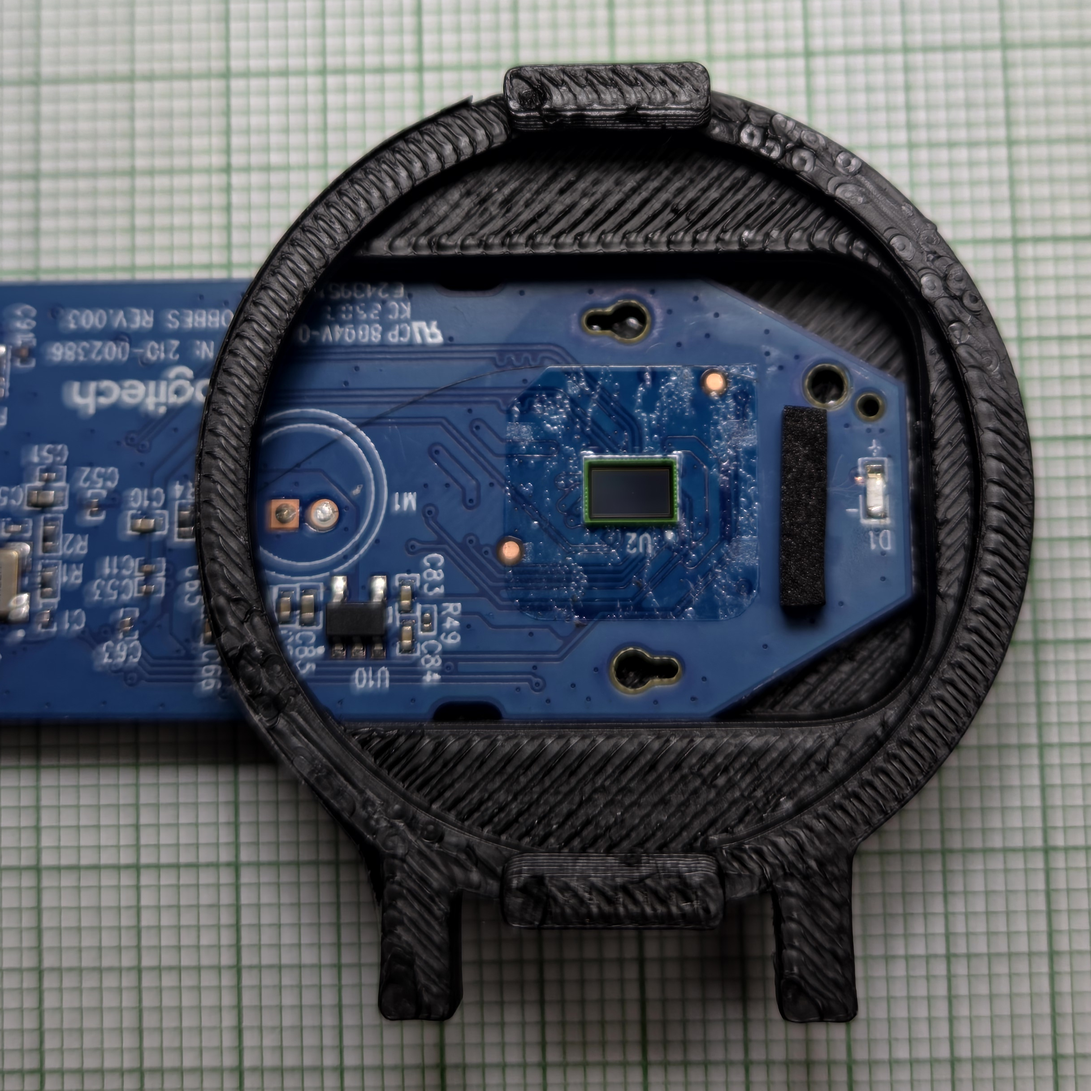
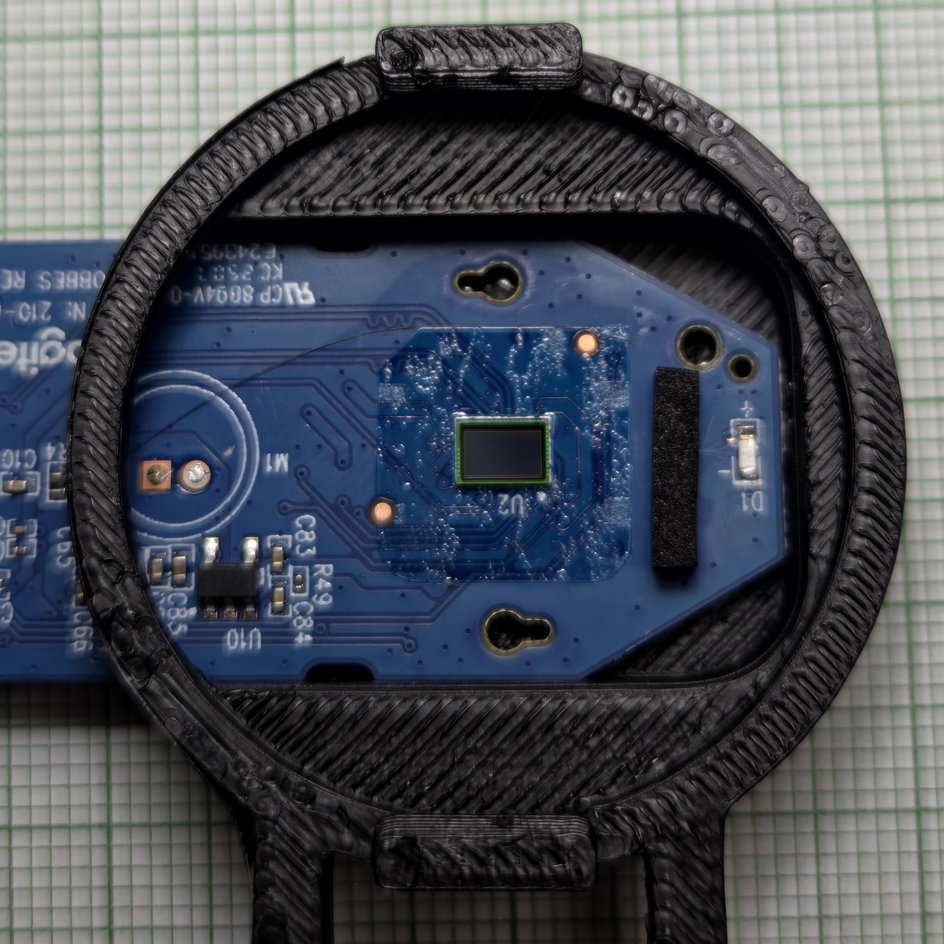
camera and patterns

diff --git a/chap_interferometer/chap_interferometer.tex b/chap_interferometer/chap_interferometer.tex
@@ -169,3 +169,21 @@ The experimental setup contains a compact Michelson interferometer integrated di
 To maintain optical integrity during assembly, all internal optical components—including the beamsplitter, fixed mirror, movable mirror, and divergent lens (labeled 3 in \cref{fig:interferometer_side_front_b}) were secured using UV-curable resin. This bonding method was specifically chosen over traditional solvent-based glues to prevent out-gassing and volatile residue condensation on the delicate optical surfaces.
 
 \subsection{Pattern Obtained}
+
+\begin{figure}[htbp]
+    \centering
+    \begin{subfigure}{0.45\textwidth}
+        \centering
+        \includegraphics[width=\textwidth]{images/pattern_2mm_back.png}
+        \caption{Interferometer}
+        \label{fig:pattern_2mm_back_a}
+    \end{subfigure}\hfill
+    \begin{subfigure}{0.45\textwidth}
+        \centering
+        \includegraphics[width=\textwidth]{images/pattern_4mm_back.png}
+        \caption{Interferometer (Zoomed)}
+        \label{fig:pattern_2mm_back_b}
+    \end{subfigure}
+    \caption{Interference pattern obtained from the interferometer through a piece of paper as objective. a) Interferometer at 2 mm of the objective; b) Interferometer at 4 mm of the objective.}
+    \label{fig:patterns_back}
+\end{figure}

diff --git a/chap_optical_detection/camera.tex b/chap_optical_detection/camera.tex
@@ -21,7 +21,7 @@ This camera was selected due to its balance between cost and performance, while 
     \end{subfigure}\hfill
     \begin{subfigure}{0.45\textwidth}
         \centering
-        \includegraphics[width=\textwidth]{images/camera_with_3d_old_top.jpg}
+        \includegraphics[width=\textwidth]{images/c270_on_holder.jpg}
         \caption{Camera Sensor (OLD change)}
         \label{fig:camera_exposed}
     \end{subfigure}
